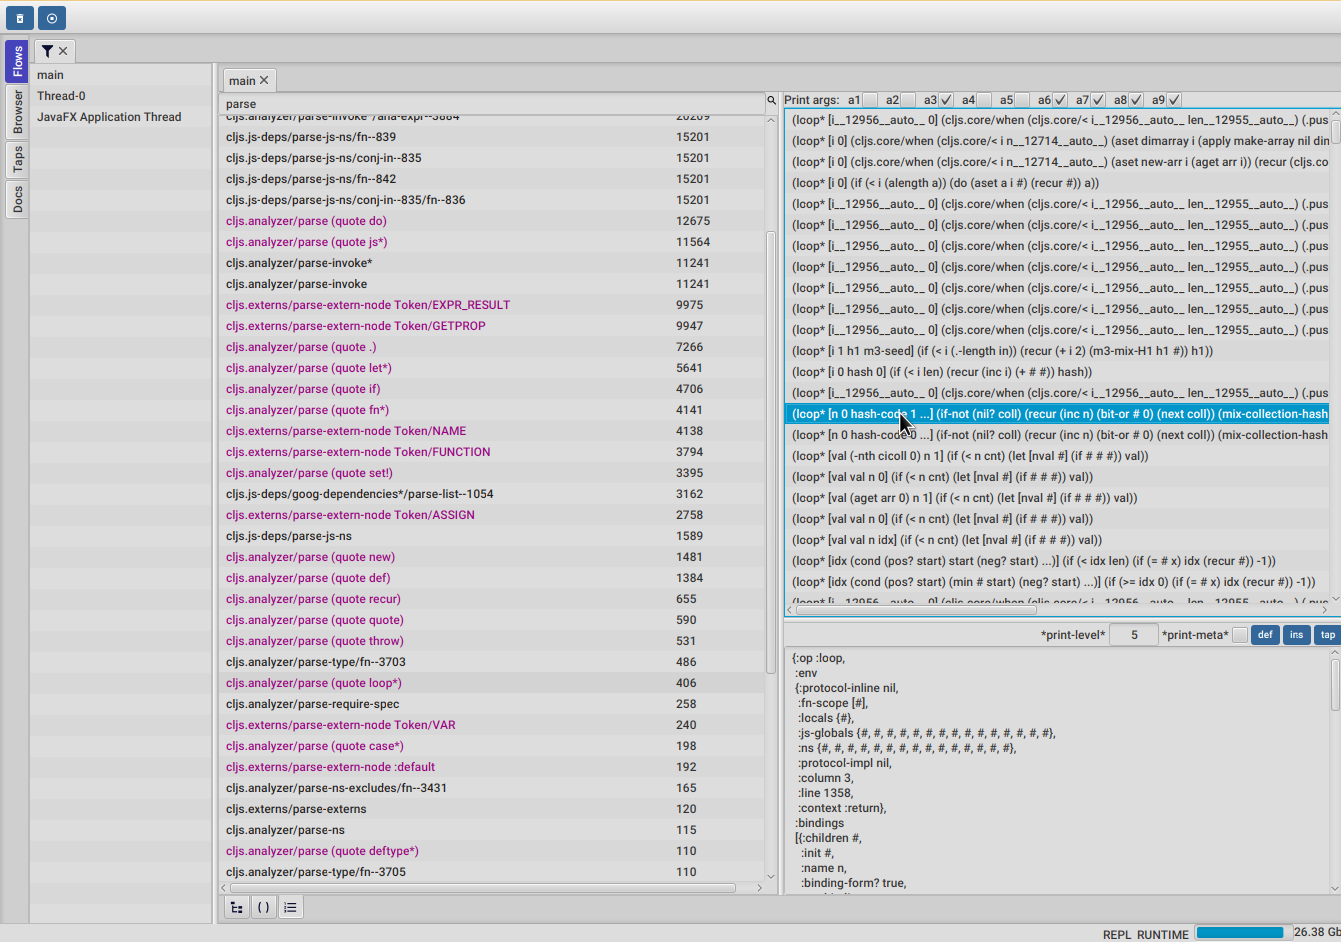
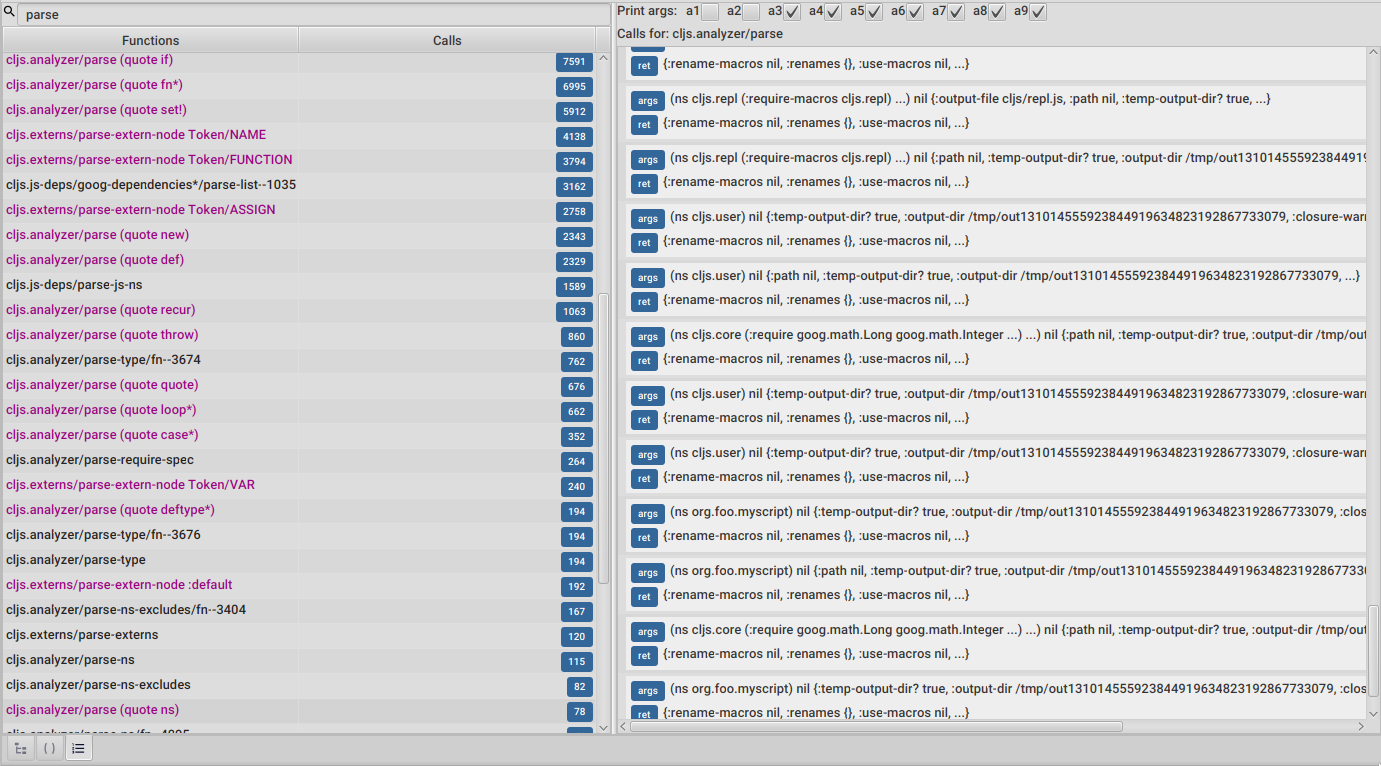
More improvements to the functions pane
Fix #146

Changed region(s): [[0.0, 0.0, 1.0, 1.0]]

diff --git a/docs/user_guide.html b/docs/user_guide.html
@@ -2416,8 +2416,8 @@ You can use the refresh button at the root to update it.</p>
 <p>Normal functions will be colored black, multimethods magenta and types/records protocols/interfaces implementations in green.</p>
 </div>
 <div class="paragraph">
-<p>Together with the <a href="#_call_stack_tree_tool">call stack tree</a> provide a high level overview of a flow thread execution and allows you to
-jump through time much quicker than single stepping.</p>
+<p>Together with the <a href="#_call_stack_tree_tool">call stack tree</a> it provides a high level overview of a thread execution, and allows you to
+jump through time much faster than single stepping.</p>
 </div>
 <div class="paragraph">
 <p>You can search over the functions list by using the bar at the top.</p>
@@ -2425,8 +2425,9 @@ jump through time much quicker than single stepping.</p>
 <div class="sect4">
 <h5 id="_function_calls"><a class="anchor" href="#_function_calls"></a><a class="link" href="#_function_calls">Function calls</a></h5>
 <div class="paragraph">
-<p>Double clicking on any function will display all function calls on the right sorted by time. Each line will show the arguments vector
-for each call, and you can use the check boxes at the top to hide some of them.</p>
+<p>Clicking on the calls counter of any function will display all function calls on the right sorted by time.
+Each line will show the arguments vector for each call, and their return value.
+Use the check boxes at the top to hide some of the arguments.</p>
 </div>
 <div class="imageblock">
 <div class="content">
@@ -2434,7 +2435,10 @@ for each call, and you can use the check boxes at the top to hide some of them.<
 </div>
 </div>
 <div class="paragraph">
-<p>Clicking on any item will display the result of the call in the value pane, while double clicking on any item in the functions call list will move the debugger to that specific point in time.</p>
+<p>Double clicking on any row in the functions call list will jump to the stepper at that point in time.</p>
+</div>
+<div class="paragraph">
+<p>You can also use the <code>args</code> and <code>ret</code> buttons to open the values on the inspector.</p>
 </div>
 </div>
 <div class="sect4">
@@ -3783,7 +3787,7 @@ by providing <code>:verbose? true</code> to the options map.</p>
 </div>
 <div id="footer">
 <div id="footer-text">
-Last updated 2024-02-15 12:24:13 -0300
+Last updated 2024-02-28 10:13:45 -0300
 </div>
 </div>
 </body>

diff --git a/resources/styles.css b/resources/styles.css
@@ -301,3 +301,7 @@
 .timeline-tool .controls-box {
     -fx-padding : 10;
 }
+
+.contrast-background {
+    -fx-background-color: -fx-theme-base2;
+}
